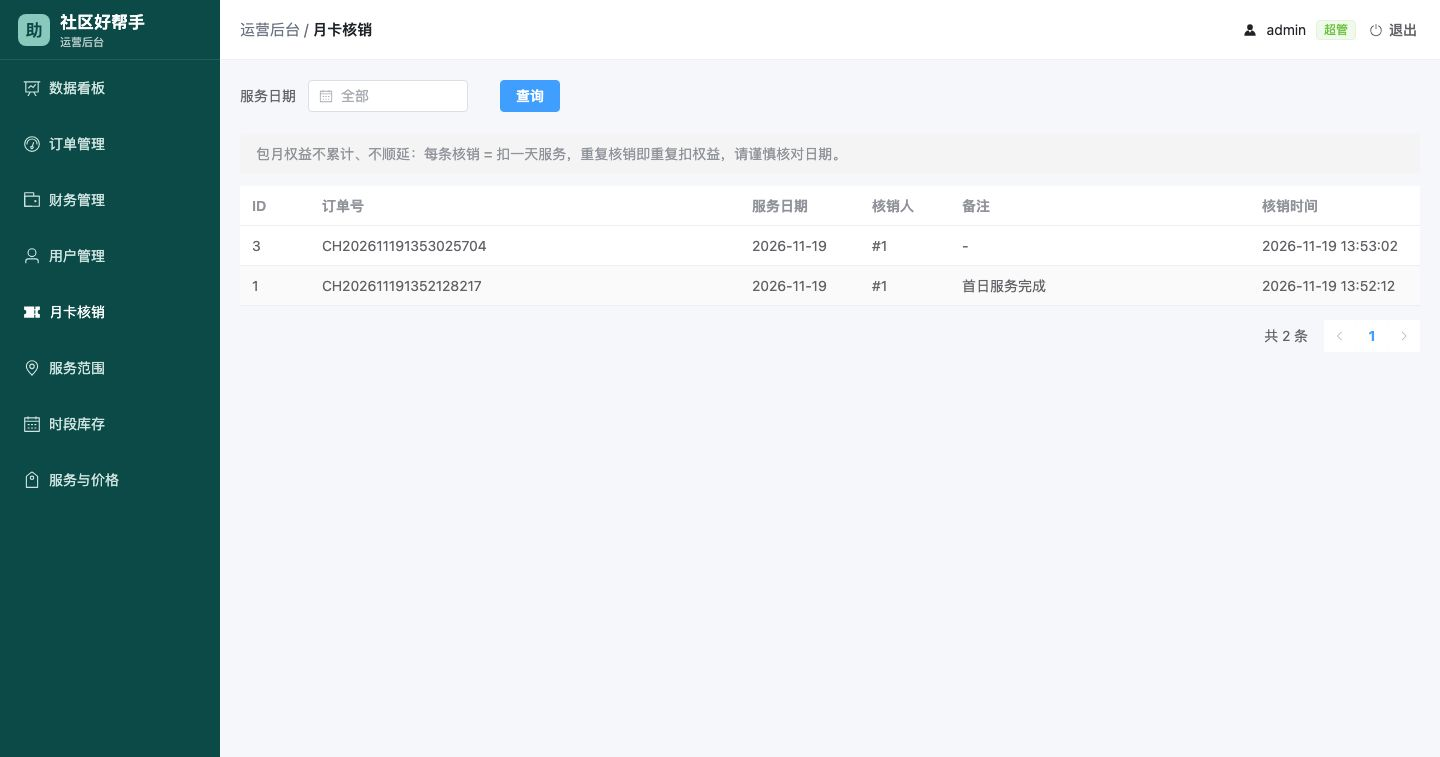
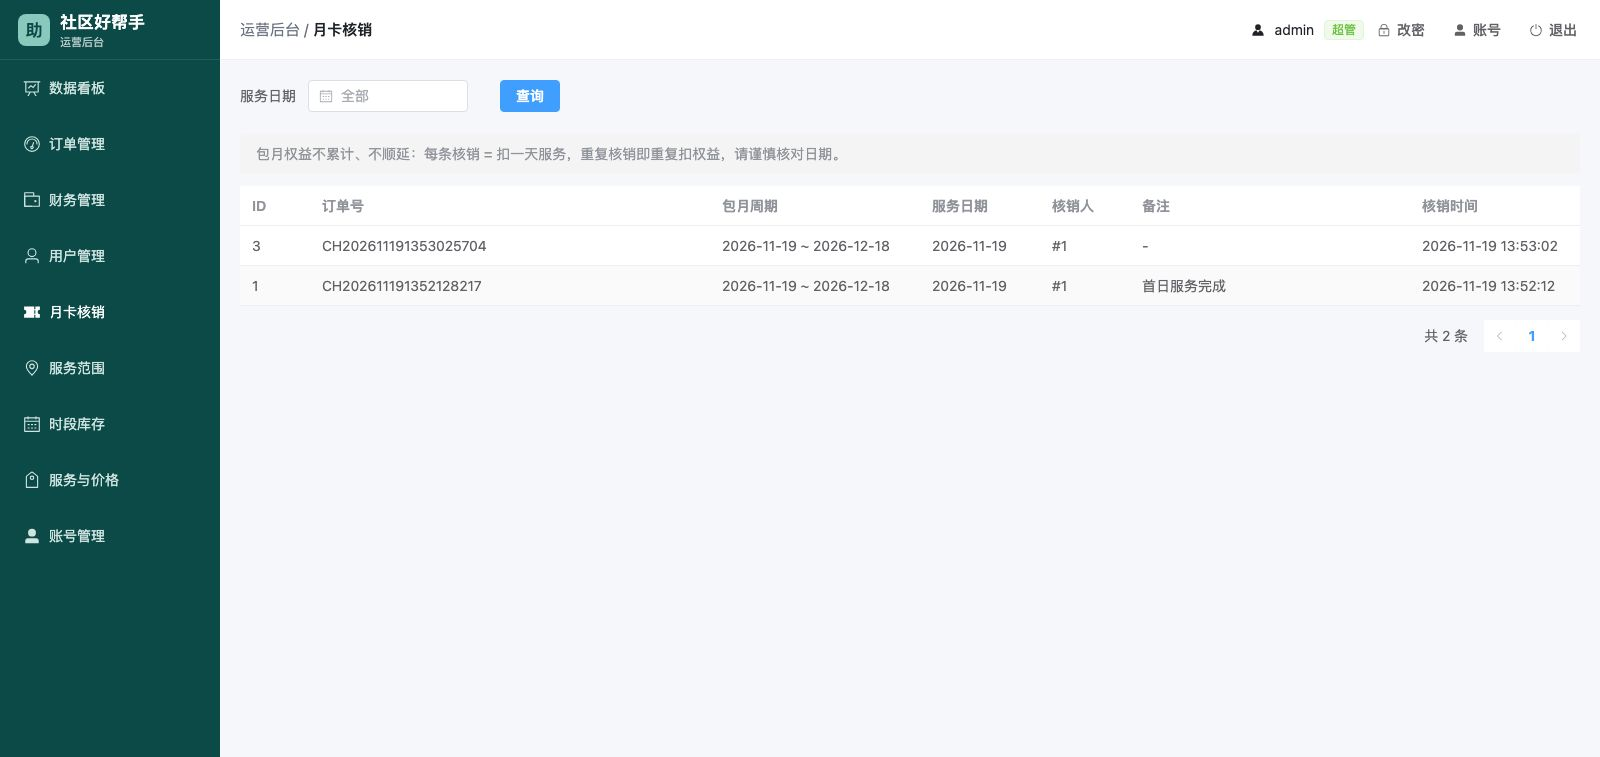
feat: 月卡核销增加包月开始/结束日期
- 核销记录列表与订单列表返回包月周期（服务日期起 30 天）
- 核销弹窗显示周期提示，日期选择限制在周期内且不晚于今天
- 截图 12/18 更新

diff --git a/admin/src/views/orders/index.vue b/admin/src/views/orders/index.vue
@@ -182,12 +182,21 @@ async function doRefund() {
 
 // ---- 包月核销 ----
 const redeemVisible = ref(false)
-const redeemForm = reactive({ orderNo: '', date: '', remark: '' })
+const redeemForm = reactive({ orderNo: '', date: '', remark: '', start: '', end: '' })
 async function openRedeem(o: Order) {
   redeemForm.orderNo = o.order_no
   redeemForm.date = o.service_date || new Date().toISOString().slice(0, 10)
   redeemForm.remark = ''
+  redeemForm.start = o.monthly_start || ''
+  redeemForm.end = o.monthly_end || ''
   redeemVisible.value = true
+}
+// 包月核销只能选服务周期内、且不晚于今天的日期（与后端校验一致）
+const TODAY = new Date()
+const redeemDisabledDate = (d: Date) => {
+  if (redeemForm.start && d < new Date(`${redeemForm.start}T00:00:00`)) return true
+  if (redeemForm.end && d > new Date(`${redeemForm.end}T23:59:59`)) return true
+  return d.getTime() > TODAY.getTime()
 }
 async function doRedeem() {
   if (!redeemForm.date) {
@@ -560,8 +569,17 @@ async function onExport() {
 
     <!-- 核销 -->
     <el-dialog v-model="redeemVisible" title="包月核销" width="440px">
+      <p v-if="redeemForm.start" class="dialog-hint">
+        包月服务周期：<b>{{ redeemForm.start }} ~ {{ redeemForm.end }}</b>（30 天，不累计不顺延）。
+        核销日期只能选周期内且不晚于今天的日期。
+      </p>
       <el-form label-width="90px">
-        <el-form-item label="核销日期"><el-date-picker v-model="redeemForm.date" type="date" value-format="YYYY-MM-DD" style="width: 100%" /></el-form-item>
+        <el-form-item label="核销日期">
+          <el-date-picker
+            v-model="redeemForm.date" type="date" value-format="YYYY-MM-DD"
+            :disabled-date="redeemDisabledDate" style="width: 100%"
+          />
+        </el-form-item>
         <el-form-item label="备注"><el-input v-model="redeemForm.remark" placeholder="如：首日服务完成" /></el-form-item>
       </el-form>
       <template #footer>

diff --git a/admin/src/views/redemptions/index.vue b/admin/src/views/redemptions/index.vue
@@ -48,6 +48,12 @@ onMounted(load)
     <el-table v-loading="loading" :data="list" stripe>
       <el-table-column prop="id" label="ID" width="70" />
       <el-table-column prop="order_no" label="订单号" min-width="200" />
+      <el-table-column label="包月周期" width="210">
+        <template #default="{ row }">
+          <span v-if="row.start_date">{{ row.start_date }} ~ {{ row.end_date }}</span>
+          <span v-else class="muted">-</span>
+        </template>
+      </el-table-column>
       <el-table-column prop="service_date" label="服务日期" width="120" />
       <el-table-column label="核销人" width="90">
         <template #default="{ row }">#{{ row.operator_id }}</template>
@@ -70,5 +76,6 @@ onMounted(load)
 <style scoped>
 .filter { margin-bottom: 4px; }
 .hint { margin-bottom: 12px; }
+.muted { color: #9aa3ad; }
 .pager { margin-top: 14px; justify-content: flex-end; }
 </style>

diff --git a/admin/src/api/index.ts b/admin/src/api/index.ts
@@ -193,6 +193,8 @@ export interface Order {
   cancel_reason?: string
   paid_at?: string
   finished_at?: string
+  monthly_start?: string
+  monthly_end?: string
 }
 
 // ---------- 接口 ----------
@@ -362,6 +364,8 @@ export interface AdminRedemption {
   id: number
   order_no: string
   service_date: string
+  start_date?: string
+  end_date?: string
   operator_id: number
   remark: string
   created_at: string

diff --git a/server/internal/service/admin_ops.go b/server/internal/service/admin_ops.go
@@ -320,22 +320,32 @@ func (s *AdminService) ListRedemptions(ctx context.Context, date string, page, s
 		ids = append(ids, r.OrderID)
 	}
 	orderNoMap := map[uint64]string{}
+	periodMap := map[uint64][2]string{}
 	if len(ids) > 0 {
 		var os []model.Order
-		if err := s.db.WithContext(ctx).Select("id, order_no").Where("id IN ?", ids).Find(&os).Error; err != nil {
+		if err := s.db.WithContext(ctx).Select("id, order_no, service_date").Where("id IN ?", ids).Find(&os).Error; err != nil {
 			return nil, 0, errs.Wrap(errs.CodeInternal, err)
 		}
 		for _, o := range os {
 			orderNoMap[o.ID] = o.OrderNo
+			start := o.ServiceDate.Time()
+			periodMap[o.ID] = [2]string{
+				start.Format("2006-01-02"),
+				start.AddDate(0, 0, MonthlyDays-1).Format("2006-01-02"),
+			}
 		}
 	}
 	out := make([]dto.AdminRedemptionRow, 0, len(list))
 	for _, r := range list {
-		out = append(out, dto.AdminRedemptionRow{
+		row := dto.AdminRedemptionRow{
 			ID: r.ID, OrderNo: orderNoMap[r.OrderID],
 			ServiceDate: r.ServiceDate.Time().Format("2006-01-02"),
 			OperatorID:  r.OperatorID, Remark: r.Remark, CreatedAt: r.CreatedAt,
-		})
+		}
+		if p, ok := periodMap[r.OrderID]; ok {
+			row.StartDate, row.EndDate = p[0], p[1]
+		}
+		out = append(out, row)
 	}
 	return out, total, nil
 }

diff --git a/server/internal/handler/admin.go b/server/internal/handler/admin.go
@@ -9,6 +9,7 @@ import (
 	"github.com/alinger/community-handyman/server/internal/errs"
 	"github.com/alinger/community-handyman/server/internal/middleware"
 	"github.com/alinger/community-handyman/server/internal/model"
+	"github.com/alinger/community-handyman/server/internal/service"
 	"github.com/alinger/community-handyman/server/pkg/response"
 )
 
@@ -260,6 +261,11 @@ func (a *API) fillAdminOrderExt(ctx context.Context, orders []model.Order, outs 
 		r.CancelReason = o.CancelReason
 		r.PaidAt = o.PaidAt
 		r.FinishedAt = o.FinishedAt
+		if o.Plan == model.PlanMonthly {
+			start := o.ServiceDate.Time()
+			r.MonthlyStart = start.Format("2006-01-02")
+			r.MonthlyEnd = start.AddDate(0, 0, service.MonthlyDays-1).Format("2006-01-02")
+		}
 	}
 }
 

diff --git a/server/internal/dto/order.go b/server/internal/dto/order.go
@@ -77,6 +77,8 @@ type OrderResp struct {
 	CancelReason    string     `json:"cancel_reason,omitempty"`
 	PaidAt          *time.Time `json:"paid_at,omitempty"`
 	FinishedAt      *time.Time `json:"finished_at,omitempty"`
+	MonthlyStart    string     `json:"monthly_start,omitempty"`
+	MonthlyEnd      string     `json:"monthly_end,omitempty"`
 }
 
 // QuoteResp 陪诊报价。Confirmed 为真表示用户已确认并去支付。

diff --git a/server/internal/dto/admin.go b/server/internal/dto/admin.go
@@ -116,6 +116,8 @@ type AdminRedemptionRow struct {
 	ID          uint64    `json:"id"`
 	OrderNo     string    `json:"order_no"`
 	ServiceDate string    `json:"service_date"`
+	StartDate   string    `json:"start_date"`
+	EndDate     string    `json:"end_date"`
 	OperatorID  uint64    `json:"operator_id"`
 	Remark      string    `json:"remark"`
 	CreatedAt   time.Time `json:"created_at"`

diff --git a/server/README.md b/server/README.md
@@ -93,7 +93,7 @@ curl http://127.0.0.1:8080/healthz
 | GET | `/api/admin/users` | 用户/服务方分页（role / keyword） |
 | PATCH | `/api/admin/users/:id/role` | 角色切换（user ↔ provider，切换后即可被派单） |
 | PATCH | `/api/admin/users/:id/status` | 封禁/解封（封禁后小程序端拒绝登录） |
-| GET | `/api/admin/redemptions` | 月卡核销记录（按服务日期筛选） |
+| GET | `/api/admin/redemptions` | 月卡核销记录（按服务日期筛选）（含所属订单的包月开始/结束日期） |
 | PUT | `/api/admin/areas/:id` | 修改服务范围规则 |
 | POST | `/api/admin/slots/copy` | 时段模板复制（源日配置 → 多个目标日期） |
 | GET | `/api/admin/export/orders` | 订单 CSV 导出（同列表筛选，带 BOM） |
